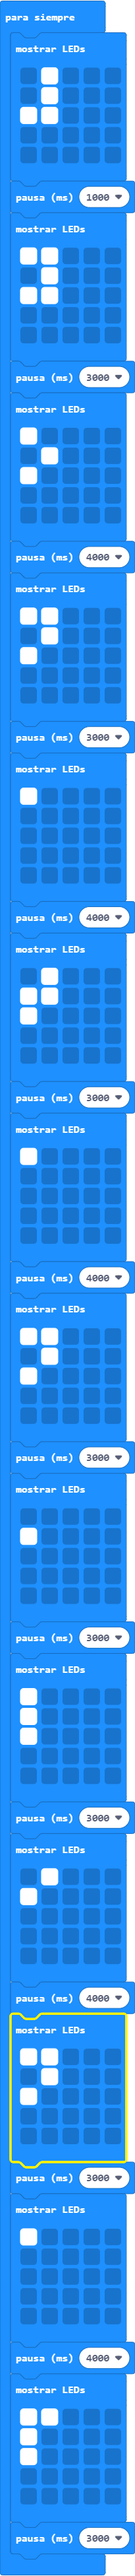
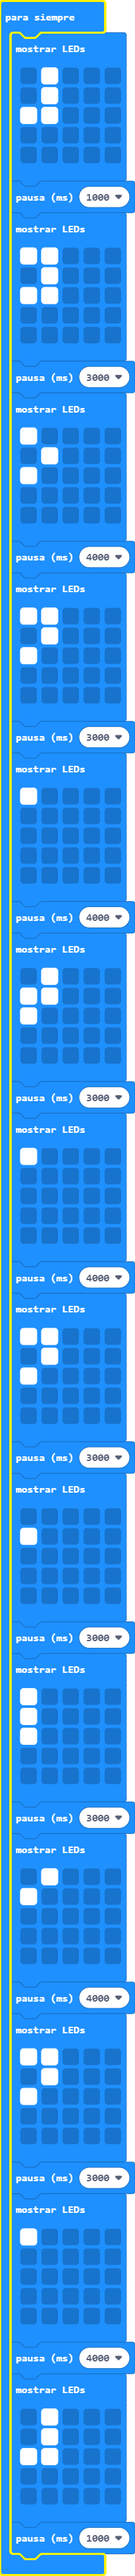
Actualizar main.blocks, main.ts

diff --git a/main.ts b/main.ts
@@ -104,11 +104,11 @@ basic.forever(function () {
         `)
     basic.pause(4000)
     basic.showLeds(`
+        . # . . .
+        . # . . .
         # # . . .
-        # . . . .
-        # . . . .
         . . . . .
         . . . . .
         `)
-    basic.pause(3000)
+    basic.pause(1000)
 })
